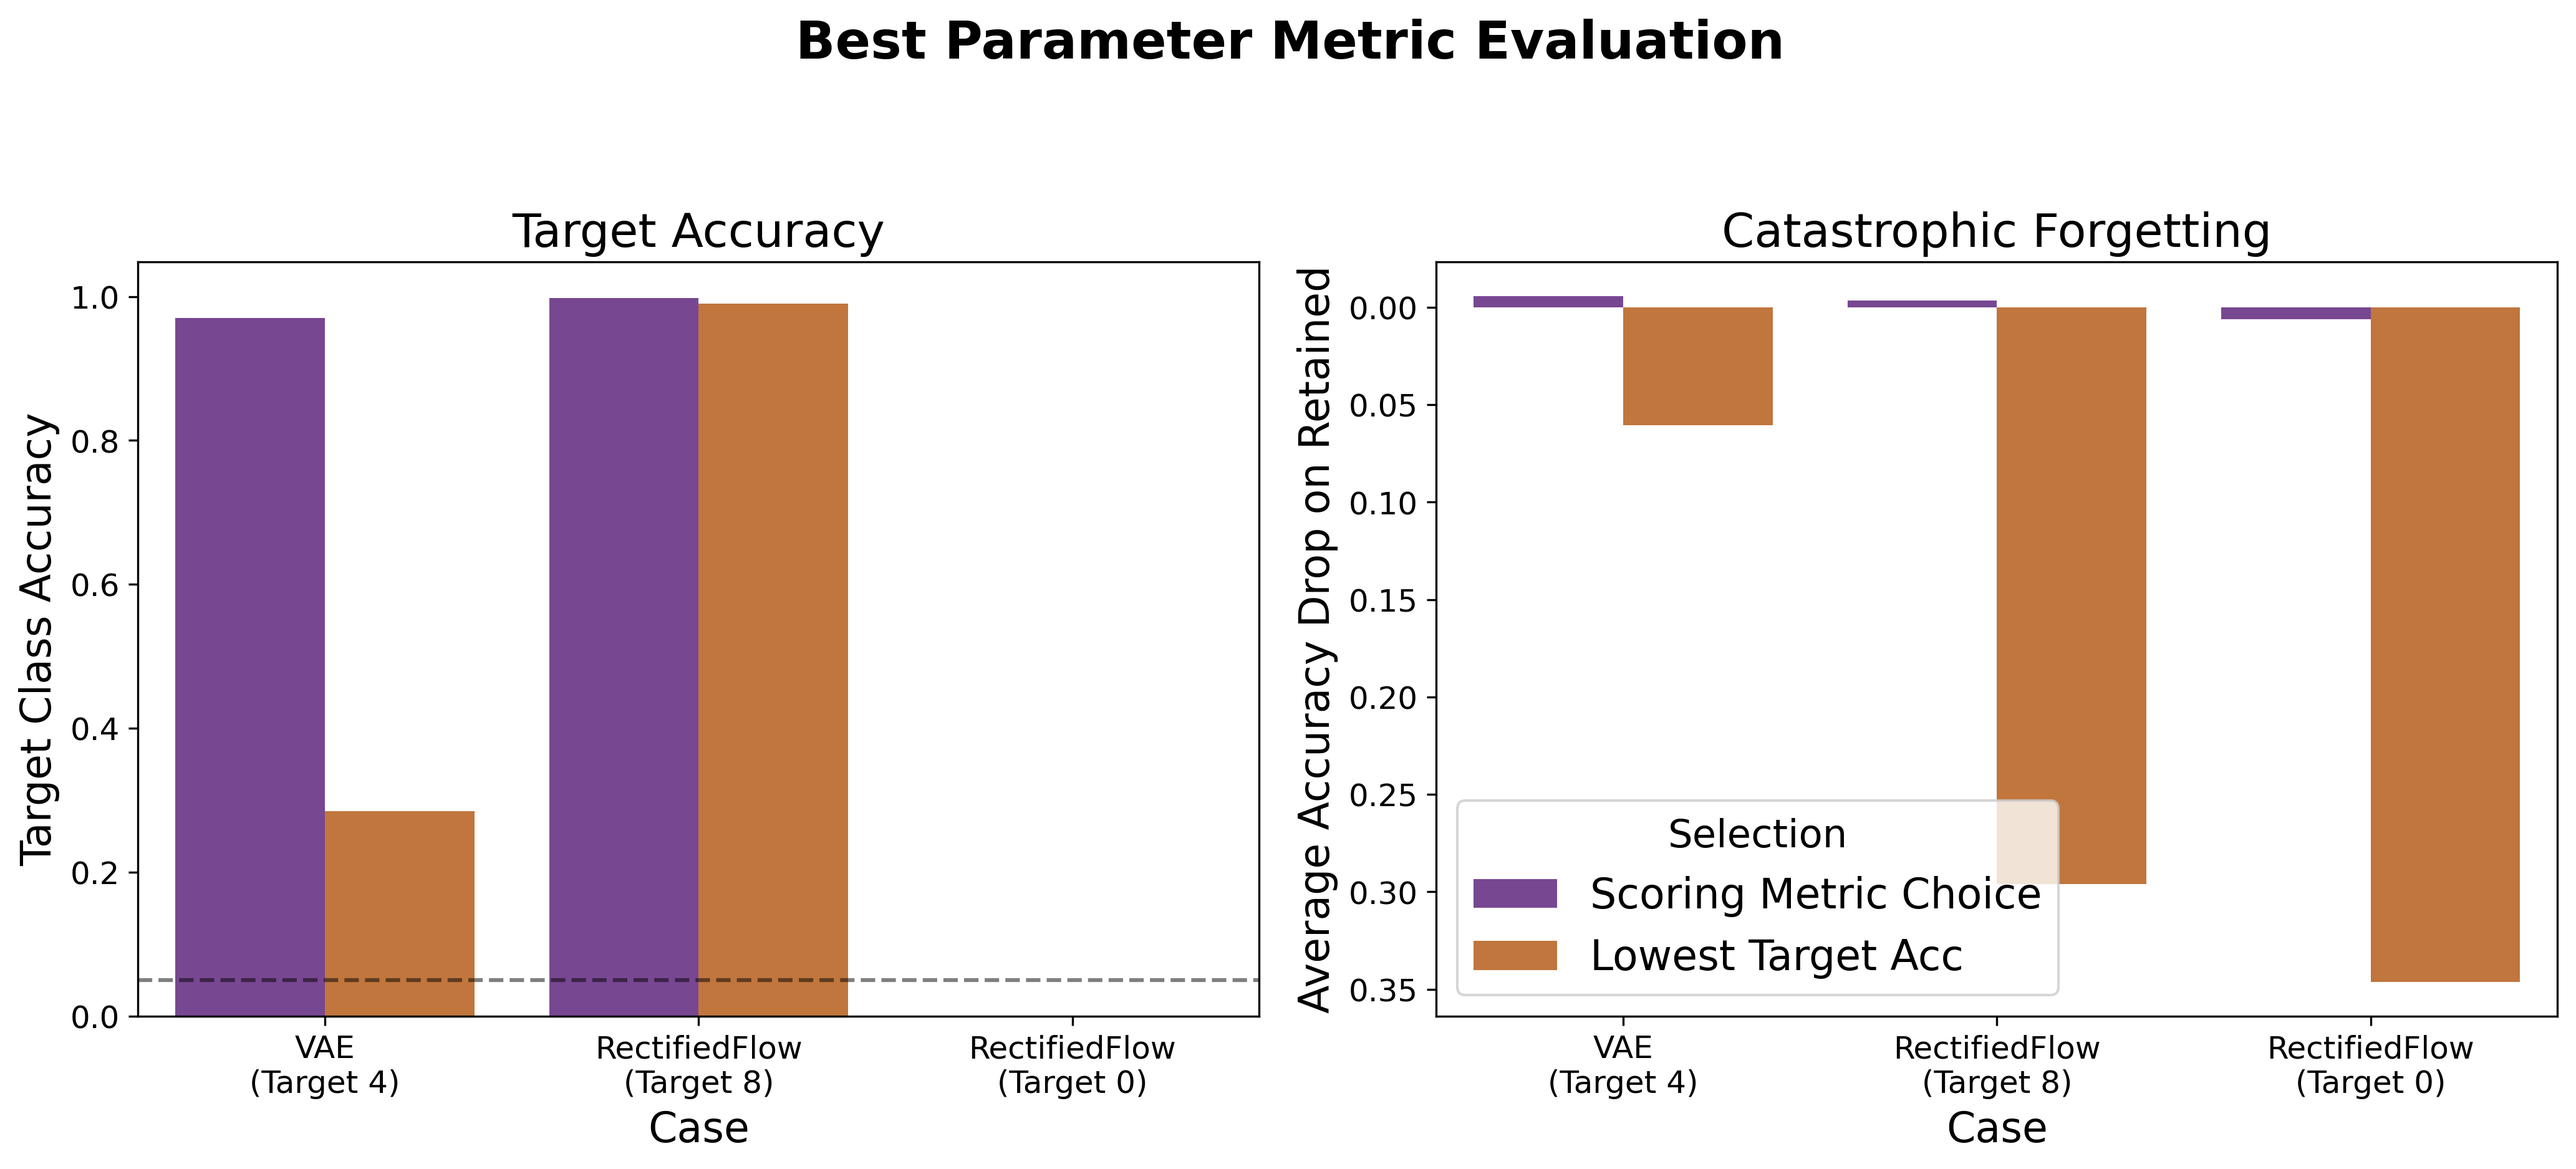
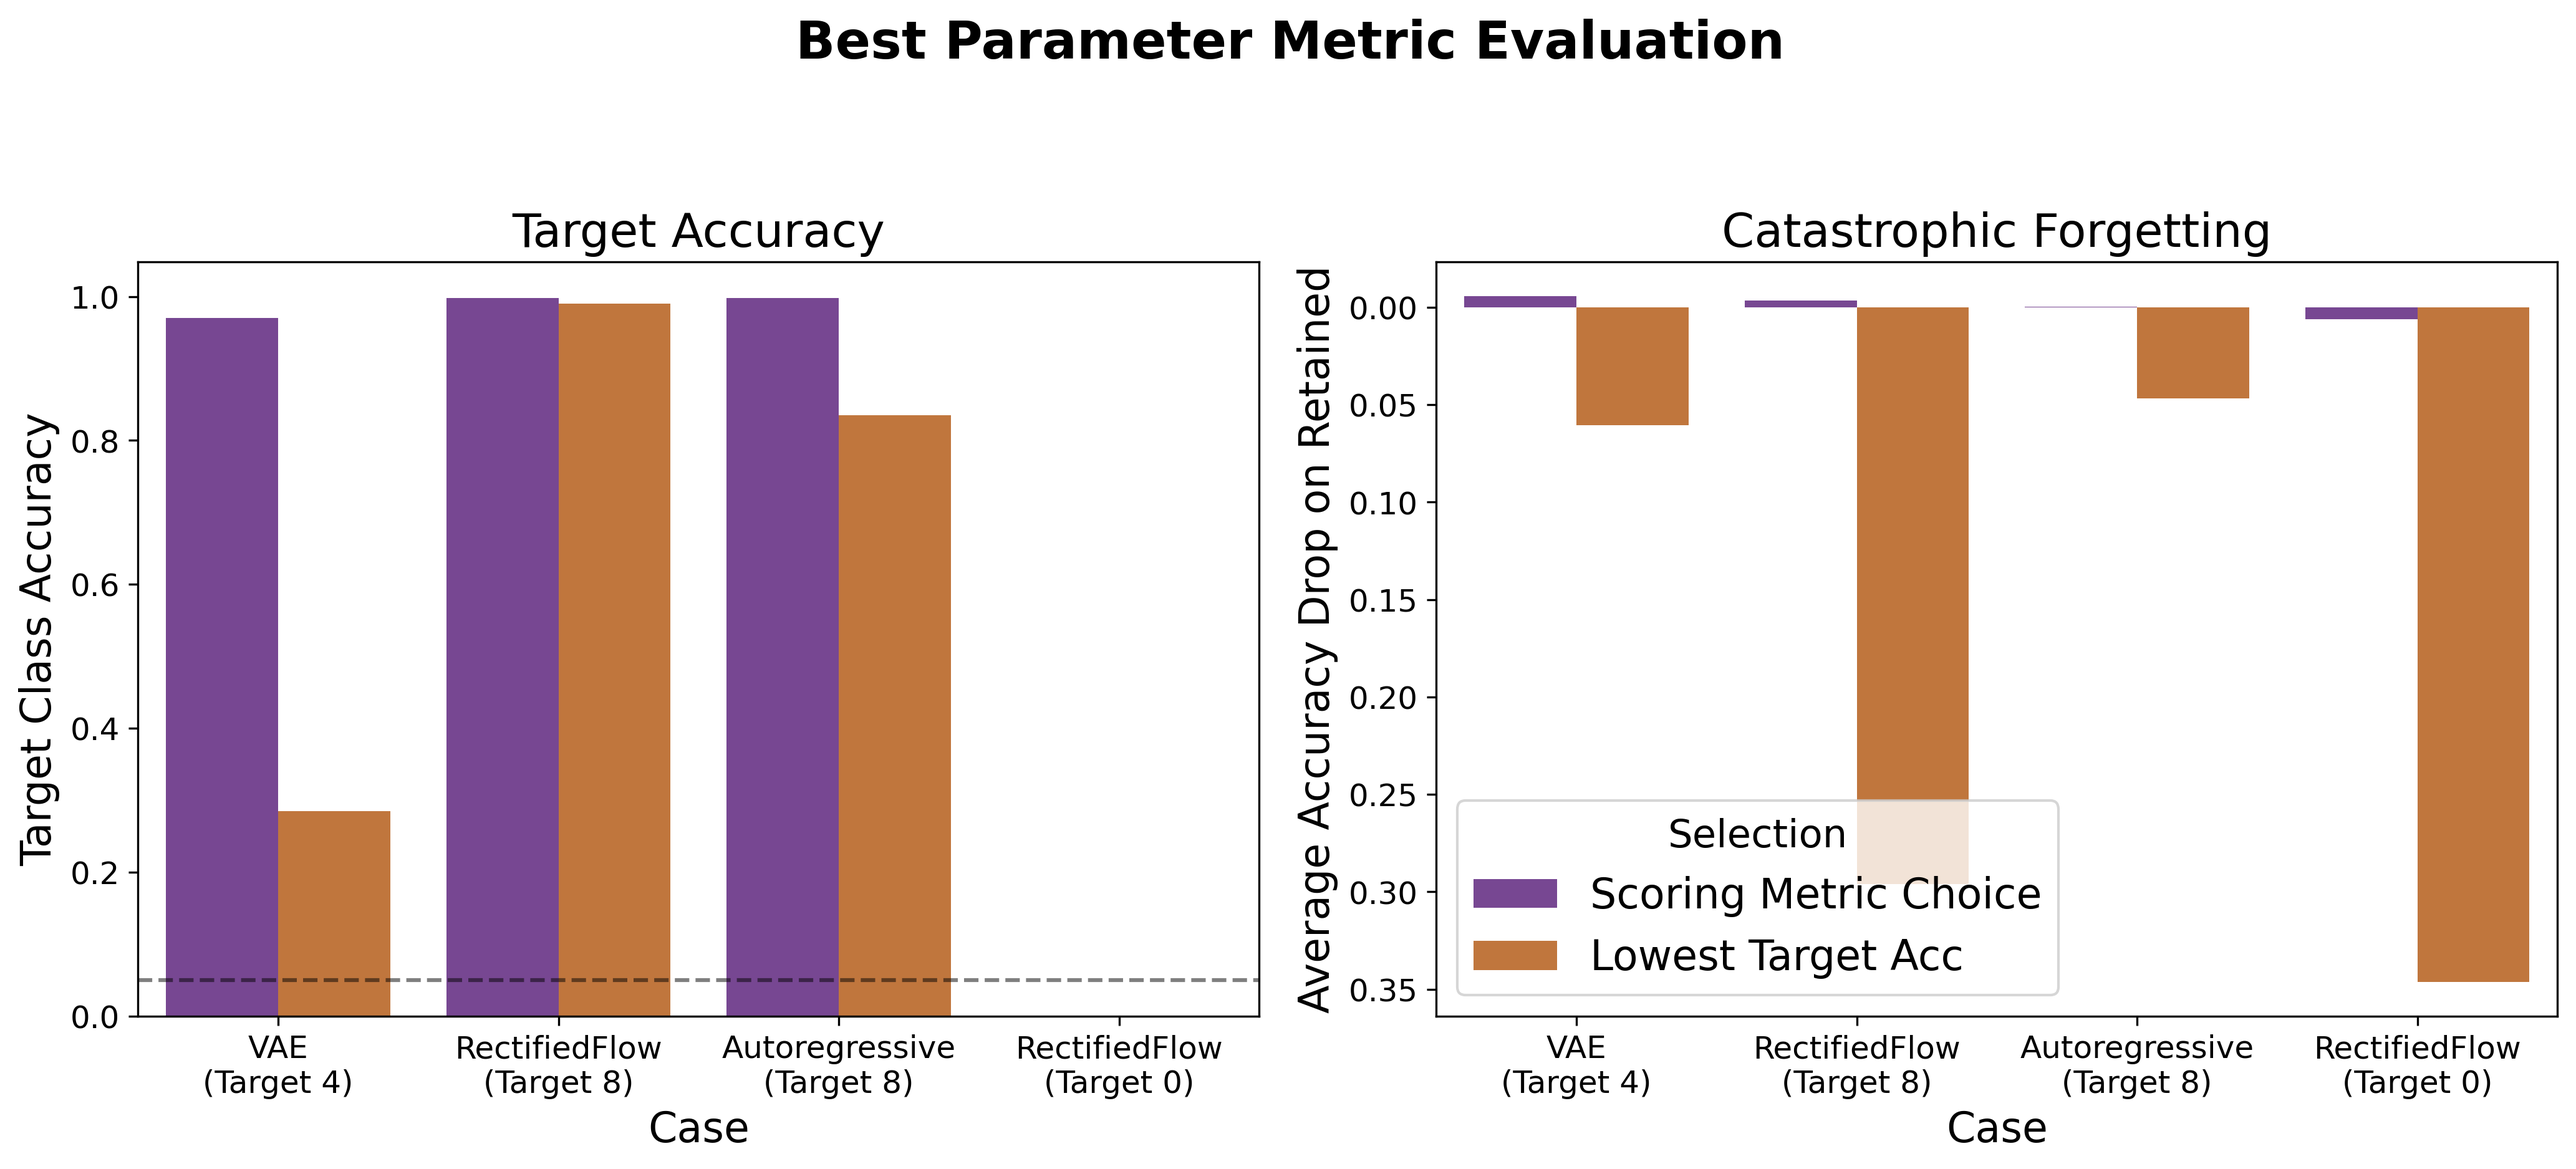
added after oracle base accuracy table, optimization trap plot

diff --git a/evaluation/table_copy.py b/evaluation/table_copy.py
@@ -85,12 +85,9 @@ def all_acc_table():
     print("    table.hline(y: 1, stroke: 0.8pt),")
     
     for model, mean_acc, mean_drop in model_stats:
-        # Determine if this row should be highlighted (Red + Bold)
-        is_best = (mean_acc == min_mean)
-        
         row_cells = []
         # Format the Model Name cell
-        model_cell = f"[{model}]" if not is_best else f"[#text(fill: red)[*{model}*]]"
+        model_cell = f"[{model}]"
         row_str = f"    align(left){model_cell}, "
         
         # Format T0-T9 cells
@@ -101,19 +98,13 @@ def all_acc_table():
             else:
                 acc, drop = val
                 content = f"{acc:.2f}\\ ({drop:+.2f})"
-                if is_best:
-                    cell_content = f"[#text(fill: red)[*{content}*]]"
-                else:
-                    cell_content = f"[{content}]"
+                cell_content = f"[{content}]"
             row_cells.append(cell_content)
         
         # Format Mean cell
         if mean_acc != float('inf'):
             mean_content = f"{mean_acc:.2f}\\ ({mean_drop:+.2f})"
-            if is_best:
-                row_cells.append(f"[#text(fill: red)[*{mean_content}*]]")
-            else:
-                row_cells.append(f"[*{(mean_acc):.2f}*\n*({(mean_drop):+.2f})*]")
+            row_cells.append(f"[*{(mean_acc):.2f}*\n*({(mean_drop):+.2f})*]")
         else:
             row_cells.append("[-]")
             
@@ -125,12 +116,232 @@ def all_acc_table():
     print("  caption: [Target accuracy and average retained accuracy drop across all 10 targeted classes. 0.0 target accuracy and 0.0 drop indicate optimal SA. Format: Target Acc (Drop).],")
     print(")\n")
 
+import json
+import pandas as pd
+import os
+import numpy as np
+
+TARGET_CLASS = 0
+REGISTRY = f"models/weights/optimized_model_registry_{TARGET_CLASS}.json"
+FINAL_RESULTS = f"evaluation_data/final_results_target_{TARGET_CLASS}.csv"
+
+def format_value(val):
+    if isinstance(val, float):
+        if val == 0: return "0"
+        if val < 0.001 or val >= 1000:
+            exponent = f"{val:.0e}".split('e')
+            base = exponent[0]
+            exp = int(exponent[1])
+            return f"${base} times 10^({exp})$"
+        return str(val)
+    return str(val)
+
+def base_param_table(data):
+    header = "#figure(\n  table(\n    columns: (auto, 1fr, 1fr, 2fr),\n    inset: 5pt, stroke: none, align: (left, center, center, center),\n    table.hline(y: 0, stroke: 1.5pt),\n    [*Model*], [*Latent Dim*], [*Hidden Dim*], [*Learning Rate*],\n    table.hline(y: 1, stroke: 0.8pt),"
+    print(header)
+    
+    for model, params in data.items():
+        z = params.get("z_dim") or params.get("latent_dim") or "-"
+        h = params.get("h_dim") or params.get("h_dim1") or params.get("hidden_dim") or "-"
+        lr = format_value(params.get("lr") or params.get("lr_G"))
+        print(f"    [{model}], [{z}], [{h}], [{lr}],")
+        
+    print("    table.hline(y: 6, stroke: 1.5pt)\n  ),\n  caption: [Base model architecture and training hyperparameters.],\n    <tab_baseparam>)\n")
+
+def sa_param_table(data):
+    header = "#figure(\n  table(\n    columns: (auto, 2fr, 2fr, 1fr, 2fr),\n    inset: 5pt, stroke: none, align: (left, center, center, center, center),\n    table.hline(y: 0, stroke: 1.5pt),\n    [*Model*], [*$gamma$* (Replay)], [*$lambda$* (EWC)], [*Loss*], [*Learning Rate*],\n    table.hline(y: 1, stroke: 0.8pt),"
+    print(header)
+    
+    for model, params in data.items():
+        sa = params["forgetting_config"]
+        print(f"    [{model}], [{format_value(sa['gamma'])}], [{format_value(sa['lmbda'])}], [{sa['loss_type'].upper()}], [{format_value(sa['lr'])}],")
+        
+    print("    table.hline(y: 6, stroke: 1.5pt)\n  ),\n  caption: [Optimal Selective Amnesia (SA) hyperparameters for target class 0.],\n    <tab_SAparam>\n)")
+
+def all_acc_table():
+    models = ["VAE", "GAN", "RectifiedFlow", "Autoregressive", "NVP"]
+    results = {m: {} for m in models}
+
+    # 1. Collect Data
+    for c in range(10):
+        csv_path = f"evaluation_data/final_results_target_{c}.csv"
+        if not os.path.exists(csv_path):
+            for m in models:
+                results[m][c] = ("-", "-")
+            continue
+            
+        df = pd.read_csv(csv_path)
+        for _, row in df.iterrows():
+            m = row['Model']
+            if m in results:
+                acc = row['Final_Target_Acc']
+                drop = row['Final_Retained_Drop']
+                results[m][c] = (acc, drop)
+
+    # 2. Calculate Means and Find the "Best" Row
+    model_stats = []
+    for model in models:
+        valid_accs = [results[model][c][0] for c in range(10) if results[model][c] != ("-", "-")]
+        valid_drops = [results[model][c][1] for c in range(10) if results[model][c] != ("-", "-")]
+        
+        mean_acc = np.mean(valid_accs) if valid_accs else float('inf')
+        mean_drop = np.mean(valid_drops) if valid_drops else float('inf')
+        model_stats.append((model, mean_acc, mean_drop))
+
+    # Identify the best (minimum) mean target accuracy
+    min_mean = min(s[1] for s in model_stats)
+
+    # 3. Print Typst Figure
+    print("#figure(")
+    print("  table(")
+    print("    columns: (auto, " + ", ".join(["1fr"] * 10) + ", 1.2fr),")
+    print("    inset: 4pt, stroke: none, align: center,")
+    print("    table.hline(y: 0, stroke: 1.5pt),")
+    
+    headers = [f"[*T{i}*]" for i in range(10)]
+    print("    align(left)[*Model*], " + ", ".join(headers) + ", [*Mean*],")
+    print("    table.hline(y: 1, stroke: 0.8pt),")
+    
+    for model, mean_acc, mean_drop in model_stats:
+        row_cells = []
+        # Format the Model Name cell
+        model_cell = f"[{model}]"
+        row_str = f"    align(left){model_cell}, "
+        
+        # Format T0-T9 cells
+        for c in range(10):
+            val = results[model].get(c, ("-", "-"))
+            if val == ("-", "-"):
+                cell_content = "[-]"
+            else:
+                acc, drop = val
+                content = f"{acc:.2f}\\ ({drop:+.2f})"
+                cell_content = f"[{content}]"
+            row_cells.append(cell_content)
+        
+        # Format Mean cell
+        if mean_acc != float('inf'):
+            row_cells.append(f"[*{(mean_acc):.2f}*\n*({(mean_drop):+.2f})*]")
+        else:
+            row_cells.append("[-]")
+            
+        row_str += ", ".join(row_cells) + ","
+        print(row_str)
+
+    print(f"    table.hline(y: {len(models) + 1}, stroke: 1.5pt)")
+    print("  ),")
+    print("  caption: [Target accuracy and average retained accuracy drop across all 10 targeted classes. 0.0 target accuracy and 0.0 drop indicate optimal SA. Format: Target Acc (Drop).],")
+    print("  <tab_all_acc>")
+    print(")\n")
+
+def base_acc_table():
+    models = ["VAE", "GAN", "RectifiedFlow", "Autoregressive", "NVP"]
+    results = {m: {d: [] for d in range(10)} for m in models}
+
+    # 1. Collect Data across all 10 target csvs
+    for c in range(10):
+        csv_path = f"evaluation_data/final_results_target_{c}.csv"
+        if not os.path.exists(csv_path):
+            continue
+            
+        df = pd.read_csv(csv_path)
+        for _, row in df.iterrows():
+            m = row['Model']
+            if m in results:
+                for d in range(10):
+                    col_before = f'digit_{d}_before'
+                    if col_before in row:
+                        results[m][d].append(row[col_before])
+
+    # 2. Print Typst Figure
+    print("#figure(")
+    print("  table(")
+    print("    columns: (auto, " + ", ".join(["1fr"] * 10) + ", 1.2fr),")
+    print("    inset: 4pt, stroke: none, align: center,")
+    print("    table.hline(y: 0, stroke: 1.5pt),")
+    
+    headers = [f"[*D{i}*]" for i in range(10)]
+    print("    align(left)[*Model*], " + ", ".join(headers) + ", [*Mean*],")
+    print("    table.hline(y: 1, stroke: 0.8pt),")
+    
+    for model in models:
+        row_cells = []
+        row_str = f"    align(left)[{model}], "
+        
+        model_means = []
+        for d in range(10):
+            vals = results[model][d]
+            if vals:
+                mean_val = np.mean(vals)
+                model_means.append(mean_val)
+                row_cells.append(f"[{mean_val:.3f}]") # using 3 decimal places for clarity
+            else:
+                row_cells.append("[-]")
+        
+        if model_means:
+            overall_mean = np.mean(model_means)
+            row_cells.append(f"[*{(overall_mean):.3f}*]")
+        else:
+            row_cells.append("[-]")
+            
+        row_str += ", ".join(row_cells) + ","
+        print(row_str)
+
+    print(f"    table.hline(y: {len(models) + 1}, stroke: 1.5pt)")
+    print("  ),")
+    print("  caption: [Base model accuracies before selective amnesia for each digit. Averaged over all 10 evaluation runs.],")
+    print("  <tab_base_acc>")
+    print(")\n")
+
+def generation_acc_table():
+    # We only need the target 0 file to get the base model generation accuracies
+    csv_path = f"evaluation_data/final_results_target_0.csv"
+    
+    print("#figure(")
+    print("  table(")
+    print("    columns: (auto, 1fr, 1fr),")
+    print("    inset: 5pt, stroke: none, align: (left, center, center),")
+    print("    table.hline(y: 0, stroke: 1.5pt),")
+    print("    [*Model*], [*Target 0 Accuracy*], [*Mean Accuracy*],")
+    print("    table.hline(y: 1, stroke: 0.8pt),")
+
+    if not os.path.exists(csv_path):
+        print("    [Error: CSV not found], [-], [-],")
+    else:
+        df = pd.read_csv(csv_path)
+        # Using your specific model order
+        models = ["VAE", "NVP", "GAN", "RectifiedFlow", "Autoregressive"] 
+        
+        for model in models:
+            row = df[df['Model'] == model]
+            if not row.empty:
+                # Get Target 0 before accuracy
+                t0_acc = row.iloc[0]['digit_0_before']
+                
+                # Calculate mean of all 10 digits before
+                all_digits = [row.iloc[0][f'digit_{d}_before'] for d in range(10)]
+                mean_acc = np.mean(all_digits)
+                
+                # Format as percentages (e.g., ~97.5%)
+                print(f"    [{model}], [~{t0_acc*100:.1f}%], [~{mean_acc*100:.1f}%],")
+            else:
+                print(f"    [{model}], [-], [-],")
+
+    print(f"    table.hline(y: 6, stroke: 1.5pt)")
+    print("  ),")
+    print("  caption: [Base model generation accuracy as judged by the Oracle (Target 0 and Mean).],")
+    print(") <tab_base_model_generation_accuracy>\n")
 
 if __name__ == "__main__":
-    with open(REGISTRY, 'r') as f:
-        registry = json.load(f)
+    # if os.path.exists(REGISTRY):
+    #     with open(REGISTRY, 'r') as f:
+    #         registry = json.load(f)
 
-    base_param_table(registry)
-    sa_param_table(registry)
+    #     base_param_table(registry)
+    #     sa_param_table(registry)
+    # else:
+    #     print(f"Registry file {REGISTRY} not found. Skipping parameter tables.\n")
 
-    all_acc_table()
+    # all_acc_table()
+    #base_acc_table()
+    generation_acc_table()

diff --git a/evaluation/paper_plots.py b/evaluation/paper_plots.py
@@ -213,6 +213,7 @@ def plot_optimization_traps():
     edge_cases = [
         {"model": "VAE", "target": 4},
         {"model": "RectifiedFlow", "target": 8},
+        {"model": "Autoregressive", "target": 8},
         {"model": "RectifiedFlow", "target": 0} # as guideline
     ]
     
@@ -493,12 +494,13 @@ def plot_all(target_classes=range(10)):
         entanglement_matrix(model_name=model)
 
 
+
 if __name__ == "__main__":
     #plot_all(range(10))
-    stability_boxplot()
+    #stability_boxplot()
     # for c in range(10):
     #     res = f'evaluation_data/results_target_{c}.csv'
     #     parameter_trend_plot(res, c)
     # master_target_accuracy_heatmap()
-    combined_parameter_trend_plot()
-    # plot_optimization_traps()
+    #combined_parameter_trend_plot()
+    plot_optimization_traps()
